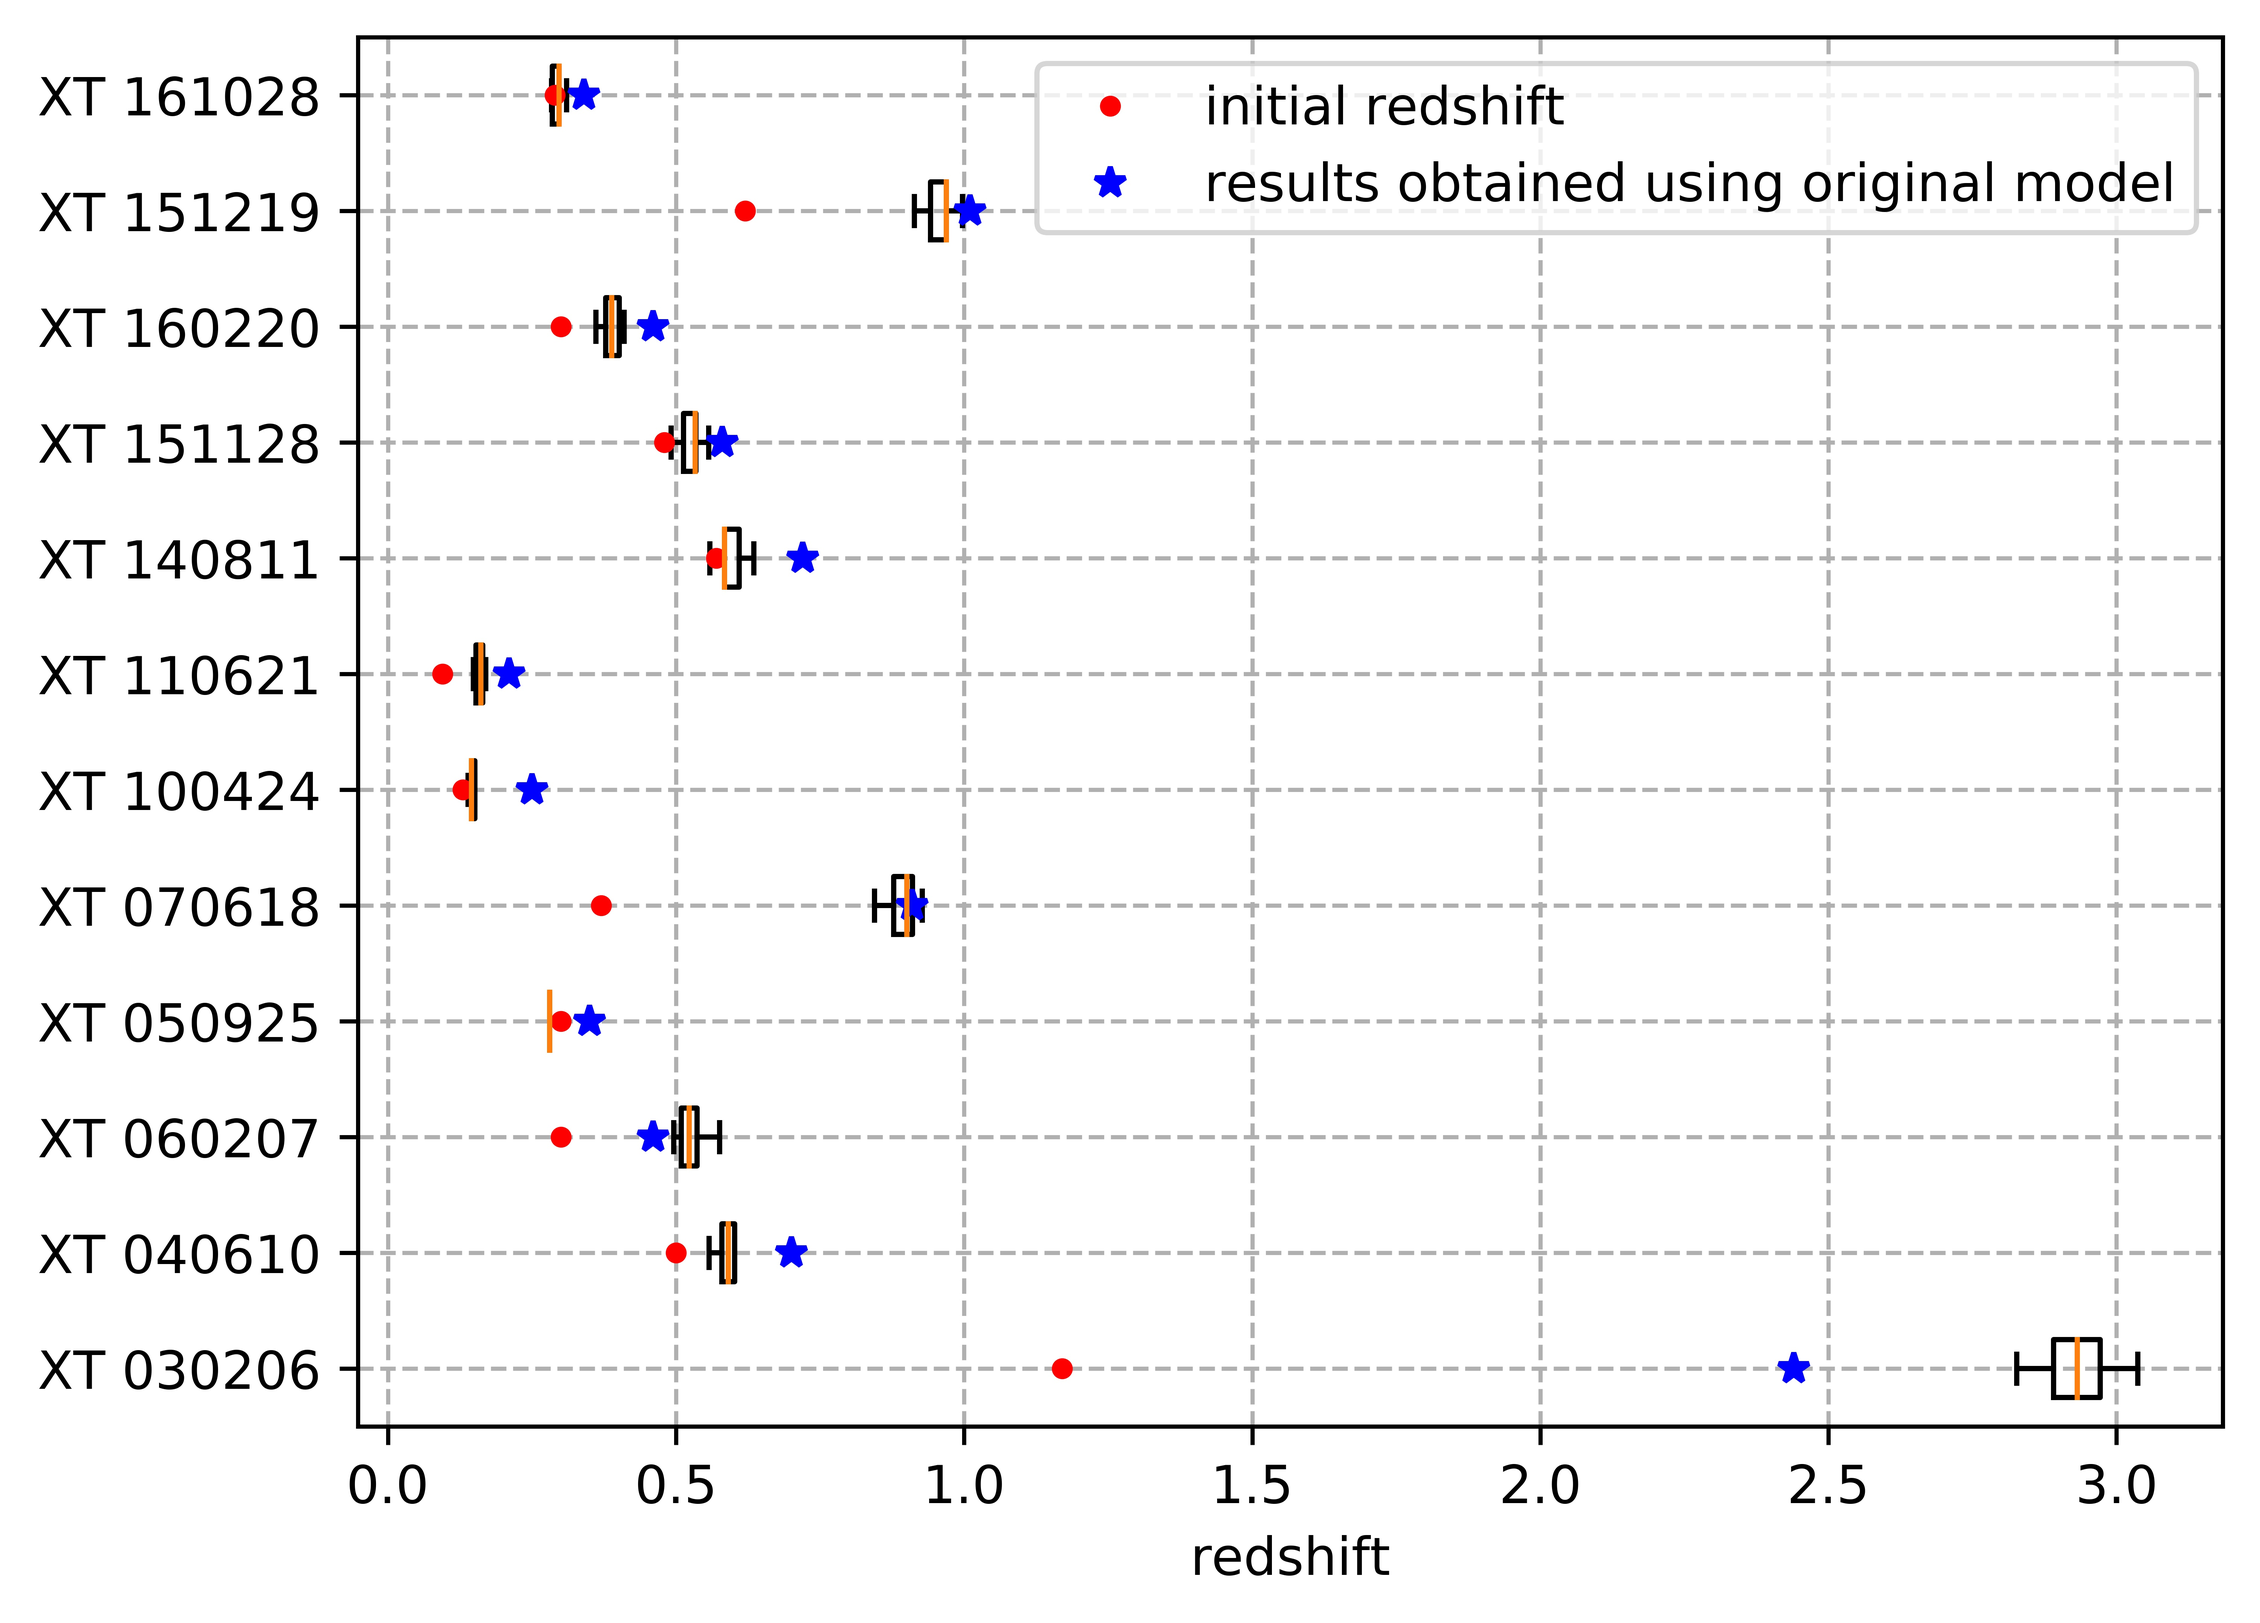
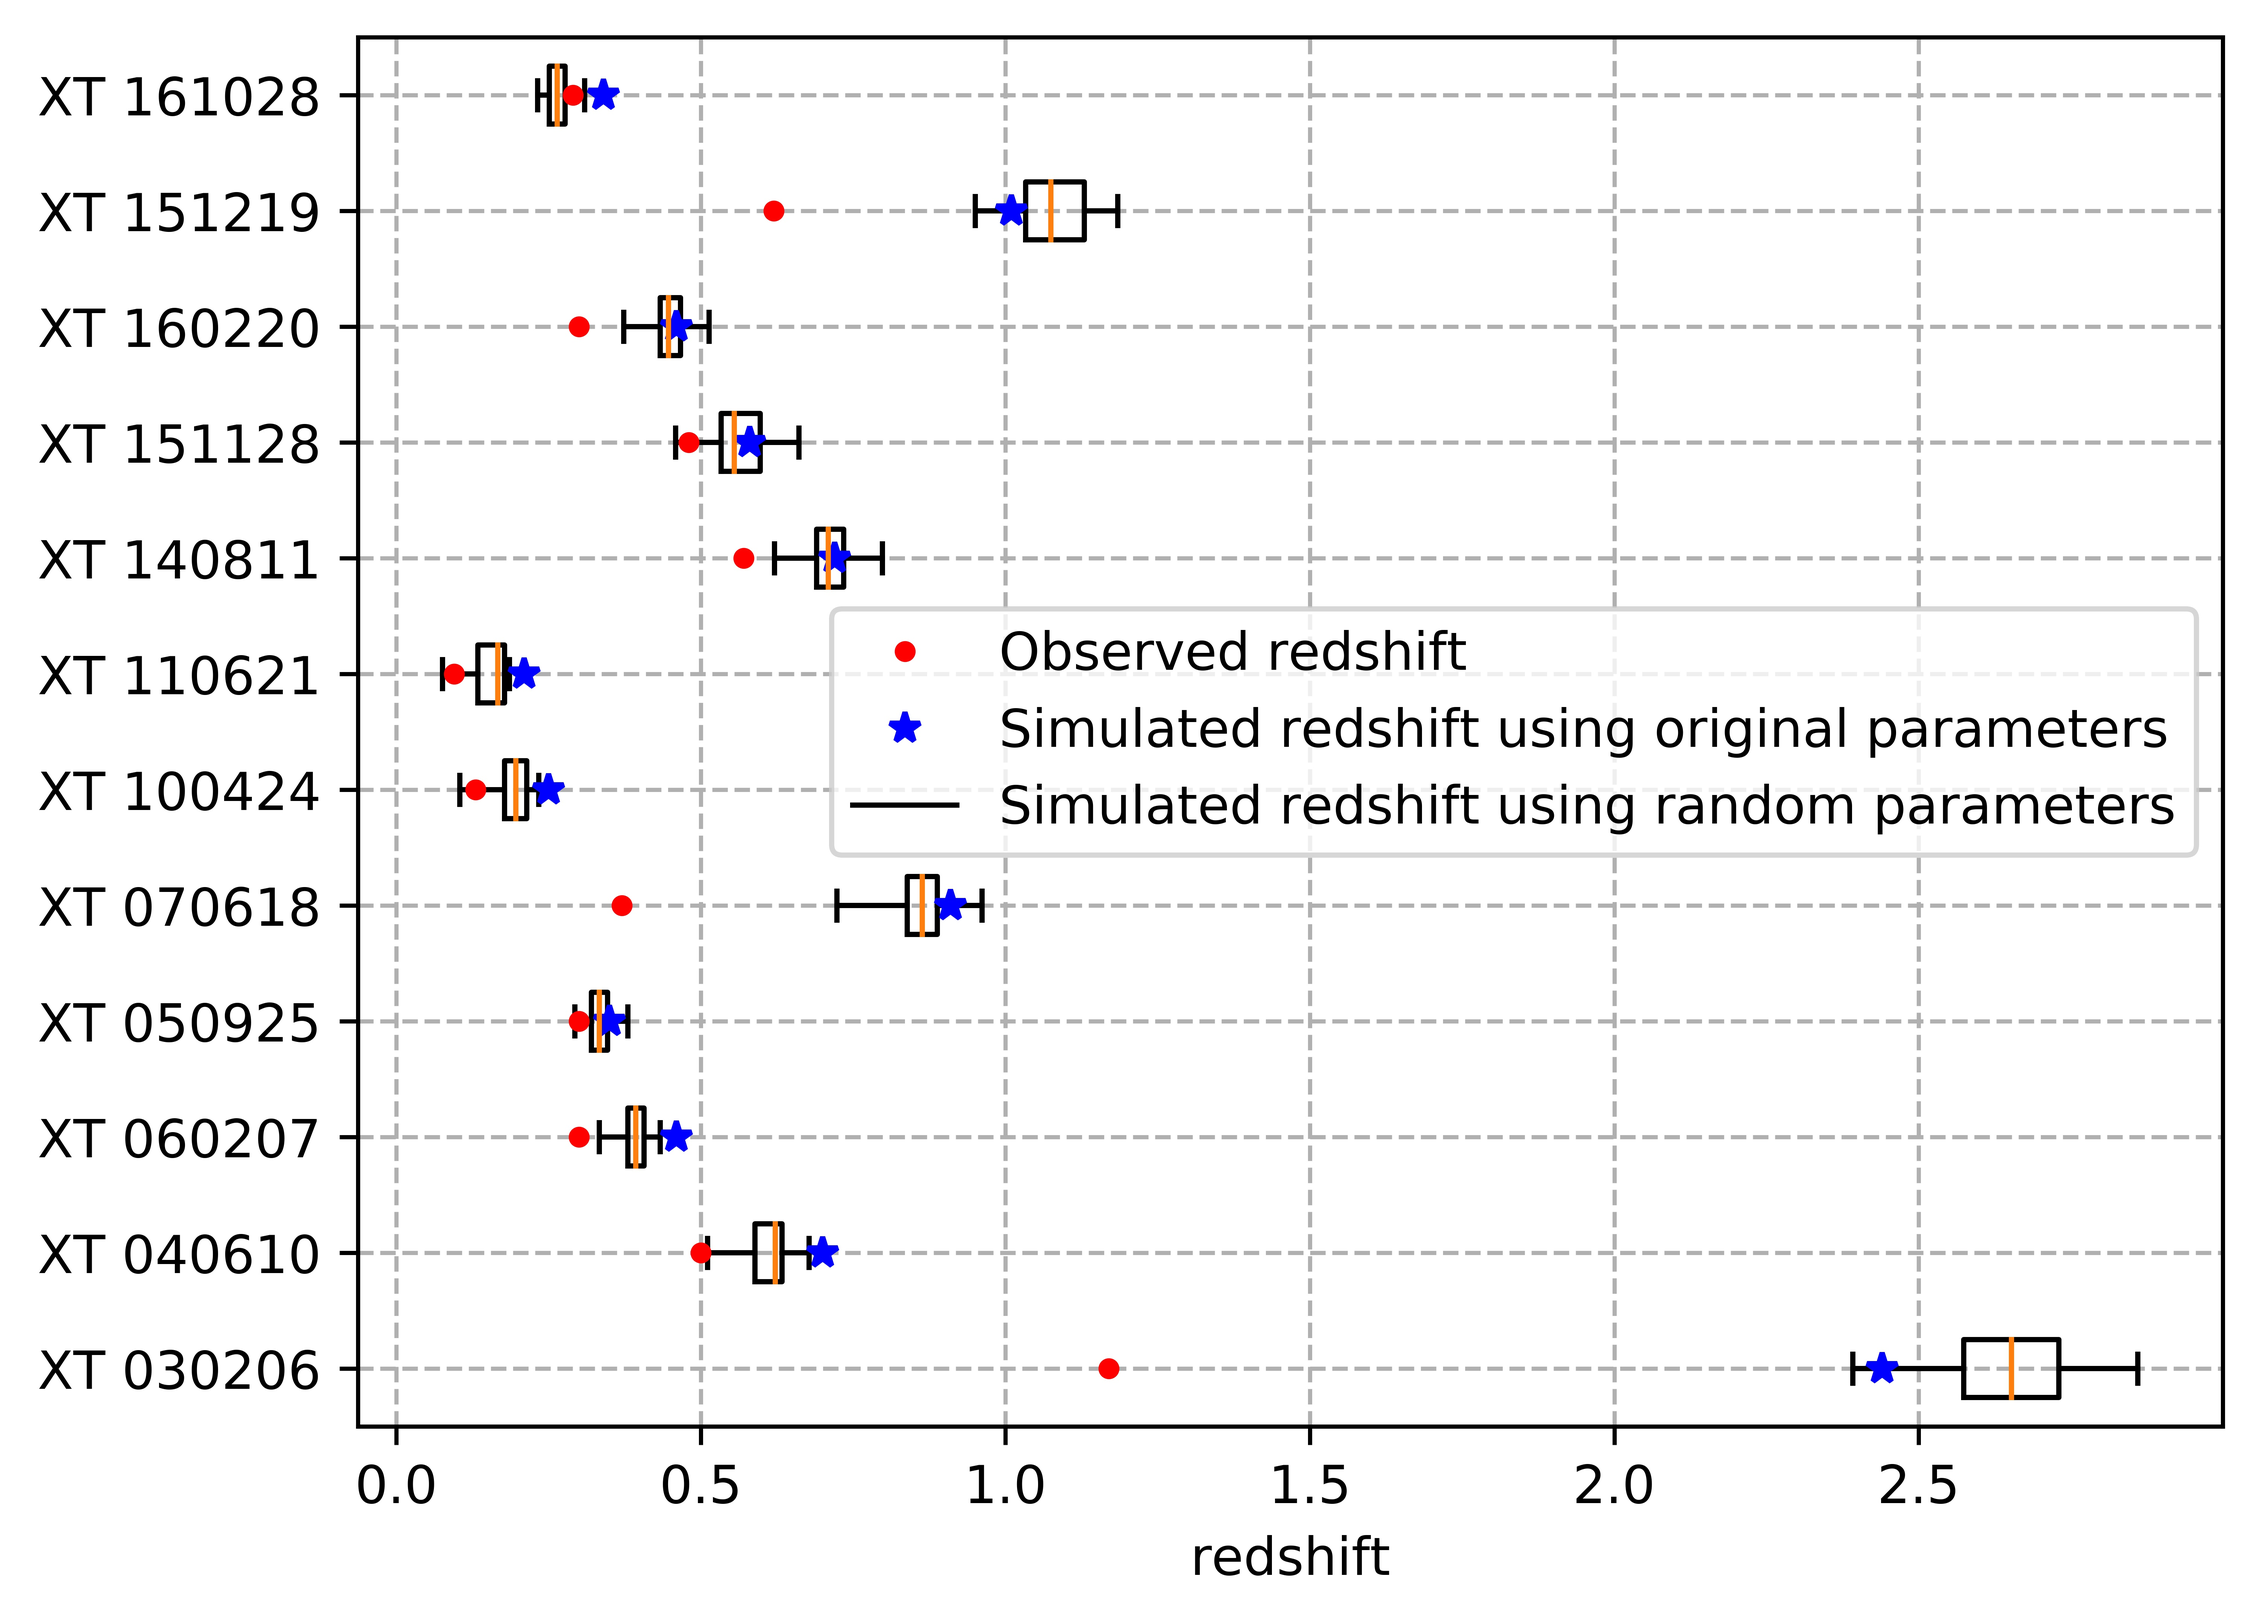
update the results

diff --git a/cal_sens.py b/cal_sens.py
@@ -26,7 +26,7 @@ from xraysim.utils import simtools
 from gdpyc import GasMap
 from tqdm import tqdm
 from matplotlib import pyplot as plt
-from multiprocessing import Process
+from multiprocessing import Process, Pool
 from threading import Thread
 
 __author__ = 'He-Yang Liu'
@@ -190,6 +190,7 @@ def get_bkg_count_rate_observation(bkg_file=None, instrument=None, src2bkg=0.25)
 
     Notes:
         The radius of the background region is 80", while the source radius is around 40".
+
     Args:
         bkg_file: csv file recording the background count rate of the 12 SBO in Alp & Larsson (2020)
         instrument (str): pn, mos1 or mos2
@@ -271,27 +272,27 @@ def generate_lc(satellite: str, instrument: str, filter_name: str, ao: int,
                                             unit="deg", frame='galactic')
             nh_gal = GasMap.nh(galactic_coordinates, nhmap="LAB").value / 1e22
         else:
-            nh_gal = (1.9 + np.random.rand() * 9.3) / 100  # in the range of 1.9e20-11.2e20
+            nh_gal = np.random.uniform(1.9, 11.201) / 100  # in the range of 1.9e20-11.2e20
 
     if not nh_host:
-        nh_host_1 = 0.01 + np.random.rand() * 4.7
+        nh_host_1 =  np.random.uniform(0.01, 4.71)
         nh_host_2 = 1e-5
-        # in the range of 0.01e22-4.7e22 or 1e17
+        # in the range of 0.01e22-4.7e22 or 1e17 (namely, no host absorption)
         nh_host = np.random.choice((nh_host_1, nh_host_2))
     if not rs_out:
-        rs_out = 0.01 + np.random.rand() * 2
+        rs_out = np.random.uniform(0.01, 2.01)
     if not alpha:
-        alpha = np.random.rand() * 1.6 + 1.9  # alpha in the range of [1.9, 3.5]
+        alpha = np.random.uniform(1.9, 3.501)  # alpha in the range of [1.9, 3.5]
     if not temperature:
-        temperature = np.random.rand() * 130 + 800  # T in the range of [0.13, 0.93] * u.keV
+        temperature = np.random.uniform(130, 930.1)  # T in the range of [0.13, 0.93] * u.keV
 
-    # default: blackbody
+    # default spectral model: blackbody
     # mo_spec = mo.PLSpec(nh_gal=nh_gal, nh_host=nh_host, rs=rs_in, alpha=alpha)
     mo_spec = mo.BBSpec(nh_gal=nh_gal, nh_host=nh_host, rs=rs_in, temperature=temperature)
 
     fake_lc = simtools.fakelc(snb_lc, mo_spec.model, rs_in=rs_in, rs_out=rs_out, input_pha=pha,
-                            input_arf=arf, input_rmf=rmf, input_bkg=bkg, pha=pha, poisson=poisson,
-                            rmf=rmf, arf=arf, bkg=bkg, bkg_rate=bkg_rate, src2bkg=src2bkg)
+                              input_arf=arf, input_rmf=rmf, input_bkg=bkg, pha=pha, poisson=poisson,
+                              rmf=rmf, arf=arf, bkg=bkg, bkg_rate=bkg_rate, src2bkg=src2bkg)
 
     return fake_lc
 
@@ -504,7 +505,9 @@ def cal_redshift(lc_file: str, rs_in: float, satellite=None, instrument=None, fi
         save_res: save the light curve at the maximum redshift or not
         plot_res: plot the light curve at the maximum redshift or not
         index_obj: the index of this object in the object list; if not None, then this
-            parameter is used to get the corresponding background count rate.
+            parameter is used to get the corresponding background count rate. This arg
+            is used to get redshift using original parameters; if None, then random
+            background count rates are used.
 
     Returns:
         redshift: maximum redshift
@@ -533,7 +536,7 @@ def cal_redshift(lc_file: str, rs_in: float, satellite=None, instrument=None, fi
             else:
                 cts_bkg_mean, cts_bkg_sigma = np.mean(cts_bkg), np.std(cts_bkg)
                 count_rate_bkg_raw = np.random.uniform(np.min(cts_bkg)-cts_bkg_sigma, np.max(cts_bkg)+cts_bkg_sigma)
-                count_rate_bkg = max(count_rate_bkg_raw, 2e-3)
+                count_rate_bkg = max(count_rate_bkg_raw, 2e-3)  # ensure ctr > 0
 
             fake_lc = generate_lc(satellite, ins, filter_name, ao, lc_file=lc_file,
                                   coordinates=(l, b), rs_in=rs_in, rs_out=rs, nh_gal=nh_gal,
@@ -602,6 +605,7 @@ def generate_light_curve(satellite=None, instrument=None, filter_name=None, ao=N
         None; but it will generate a series of csv file and plots. These plots can be used to
         compare the light curves in the paper (see their Figure 1) and those generated by our
         simulations, see the function "plot_lc_total".
+
     """
 
     if not satellite:
@@ -663,6 +667,7 @@ def plot_lc_total(obs_id=None, filter_type='thin-5', ao=19, title=None, mos1=Tru
 
     Returns:
         None
+
     """
     lc_dir = './fake_lc/'
     lc_pn = lc_dir + obs_id + '_lc_pn_' + filter_type + '_ao_' + str(ao) + '.csv'
@@ -758,17 +763,21 @@ def main(res_file):
 
 if __name__ == '__main__':
     res_file = './results/redshift.csv'
+
+    """
+    # single process
     time_start = time.time()
     main(res_file)
     time_end = time.time()
     print(f"Time consumed {time_end - time_start} s.")
-
     """
+
+    # multiprocessing using Process
     time_start = time.time()
-    number_simulation = 2
+    number_simulation = 5
     subprocesses = []
     for _ in range(number_simulation):
-        p = Thread(target=main, args=(res_file,))
+        p = Process(target=main, args=(res_file,))
         subprocesses.append(p)
     for p in subprocesses:
         p.start()
@@ -776,5 +785,7 @@ if __name__ == '__main__':
         p.join()
     time_end = time.time()
     print(f"Time consumed {time_end - time_start} s.")
-    """
+
+
+
 

diff --git a/results/plot_result.py b/results/plot_result.py
@@ -14,15 +14,22 @@ df = pd.read_csv('redshift.csv', names=obj_names)
 box_data = []
 for x in obj_names:
     box_data.append(df[x])
+    print(np.median(df[x]))
 
 fig, ax = plt.subplots()
-box_plot = ax.boxplot(box_data, vert=False, patch_artist=False, meanline=True,
-                      showfliers=False, labels=obj_names)
+box_plot = ax.boxplot(box_data, vert=False, patch_artist=False,
+                      whis=1000, showfliers=False, labels=obj_names,
+                      boxprops={'color': 'black'})
 
-ax.plot(rs_list, np.arange(1, 13), 'r.', label='initial redshift')
-ax.plot(rs_list_no_random, np.arange(1, 13), 'b*', label='results obtained using original model')
+ax.plot(rs_list, np.arange(1, 13), 'r.', label='Observed redshift')
+ax.plot(rs_list_no_random, np.arange(1, 13), 'b*', label='Simulated redshift using original parameters')
 plt.grid(True, ls='--')
-plt.legend()
+handles, labels = ax.get_legend_handles_labels()
+handles.append(box_plot["boxes"][0])
+# handles.append(box_plot["medians"][0])
+labels.append('Simulated redshift using random parameters')
+# labels.append('Median simulated redshift using random parameters')
+plt.legend(handles, labels)
 ax.set_xlabel('redshift')
 
 plt.savefig('result.jpg', dpi=1000, bbox_inches='tight')
